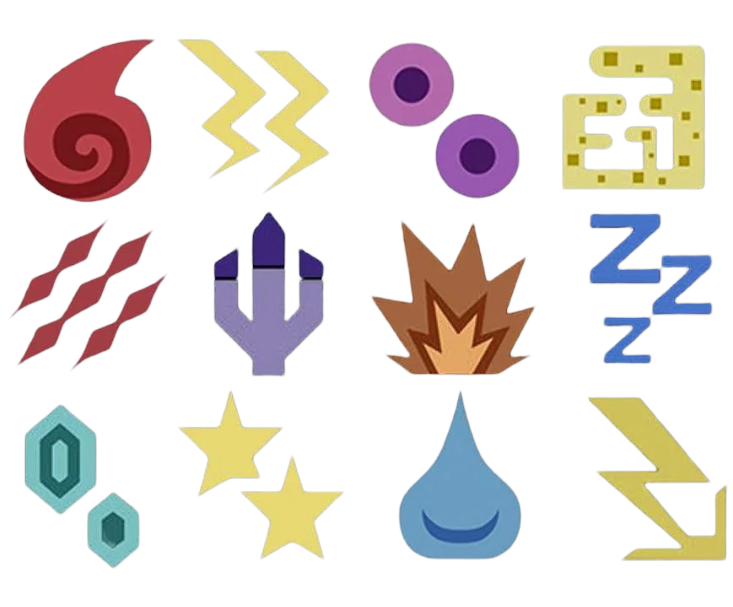
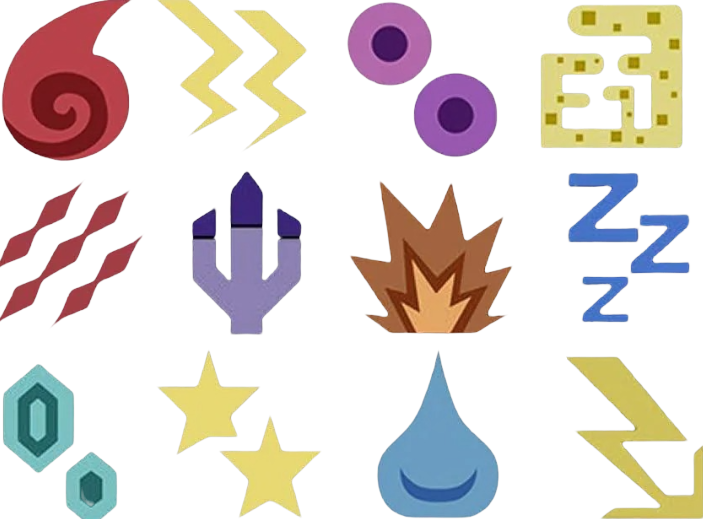
Elements spriteSheet updated
- Adjusted elements spritesheet and the parameters that gets the specific icon

diff --git a/MH-client/src/app/shared/components/element-icon/element-icon.component.css b/MH-client/src/app/shared/components/element-icon/element-icon.component.css
@@ -2,7 +2,7 @@
     display: inline-block;
     width: 170px;
     /* Tamaño de un icono individual */
-    height: 202px;
+    height: 170px;
     background-image: url('/assets/img/elementsIcon.png');
     background-repeat: no-repeat;
     transform: scale(0.15);
@@ -31,35 +31,35 @@
 }
 
 .icon-bleed {
-    background-position: 0 -202px;
+    background-position: 0 -173px;
 }
 
 .icon-dragon {
-    background-position: -170px -202px;
+    background-position: -170px -173px;
 }
 
 .icon-blast {
-    background-position: -340px -202px;
+    background-position: -340px -173px;
 }
 
 .icon-sleep {
-    background-position: -510px -202px;
+    background-position: -580px -173px;
 }
 
 .icon-ice {
-    background-position: 0 -404px;
+    background-position: 0 -346px;
 }
 
 .icon-water {
-    background-position: -170px -404px;
+    background-position: -170px -346px;
 }
 
 .icon-water {
-    background-position: -340px -404px;
+    background-position: -340px -346px;
 }
 
 .icon-thunder {
-    background-position: -510px -404px;
+    background-position: -580px -346px;
 }
 
 

diff --git a/MH-client/src/app/pages/content/weapons/weapons.component.ts b/MH-client/src/app/pages/content/weapons/weapons.component.ts
@@ -75,7 +75,7 @@ export class WeaponsComponent implements OnInit, OnDestroy {
   ]
 
 
-  element: Element = { id: 1, name: 'Fire' };
+  element: Element = { id: 1, name: 'water' };
   ///////////////////////
 
   getData(): void {

diff --git a/MH-client/src/app/shared/components/element-icon/element-icon.component.html b/MH-client/src/app/shared/components/element-icon/element-icon.component.html
@@ -1,3 +1,4 @@
 <div class="main-container">
+    <!-- Subjected to change (instead of having a spritesheet, divide the icons in different images) -->
     <div class="icon icon-{{element.name.toLowerCase()}}"></div>
 </div>
